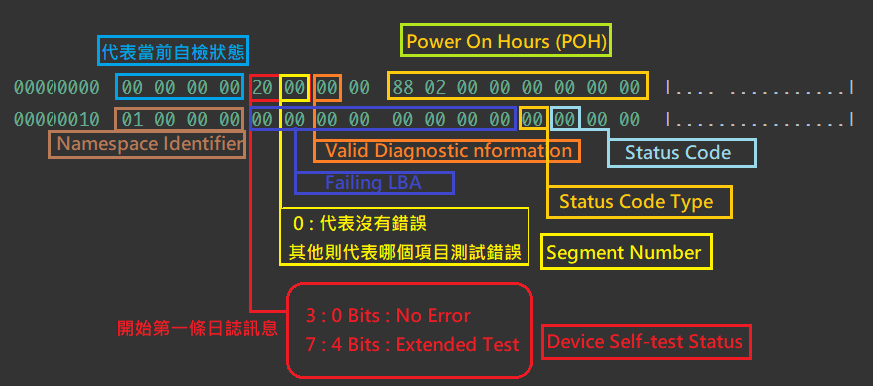
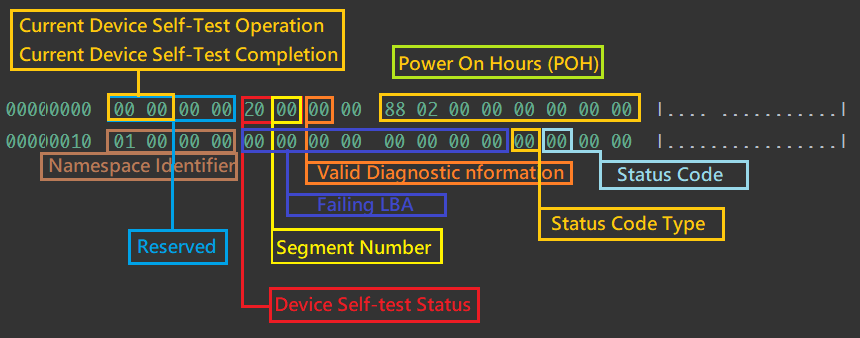
update

diff --git a/nvme/device_self_test.md b/nvme/device_self_test.md
@@ -128,7 +128,7 @@ nvme id-ctrl /dev/nvme0 | grep dsto
 
 ![](https://github.com/miniedwins/learning/blob/main/nvme/pic/admin_command_set/device_self_test_namespace_test_action.png)
 
-說明 : 指定哪一個自檢類型。
+說明 : 指定哪一個自檢測試類型，只少會有兩個類型可以設定。
 
 ~~~shell
 # Short self-test
@@ -186,7 +186,7 @@ nvme device-self-test /dev/nvme0 --namespace-id=1 --self-test-code=0xf
 
 ![](https://github.com/miniedwins/learning/blob/main/nvme/pic/log_page/log_page_self_test_result_data_structure_02.png)
 
-執行命令 : nvme-cli 可以選擇那一種顯示方式，較為方便閱讀日誌。
+執行命令 : `nvme-cli` 可以選擇那一種顯示方式，較為方便閱讀日誌。
 
 ~~~shell
 # NORMAL 格式輸出
@@ -196,7 +196,17 @@ nvme self-test-log /dev/nvme0 -o "normal"
 nvme self-test-log /dev/nvme0 -o "json"
 ~~~
 
-日誌結果 :  下列每一條日誌所輸出的結果並非日誌完整的訊息，nvme-cli 只挑選比較重要的內容顯示。
+日誌結果 :  下列每一條日誌所輸出的結果並非日誌完整的訊息，`nvme-cli` 只挑選比較重要的內容顯示。
+
+* 這兩個都數值都為零，代表當前並沒有任何自檢測試在運行
+  * Current operation  : 0
+  * Current Completion : 0%
+* Self Test Result [0] 代表第一條日誌，以此類推
+  * Operation Result : 0  (測試的結果，0 : 代表沒有發生錯誤)
+  * Self Test Code : 2  (Extended Self Test)
+  * Valid Diagnostic Information : 0 (疑問 : 不清楚想表達的意義)
+  * Power on hours (POH)  : 0x288  (執行第一次自檢測試，總共上電多少個小時)
+  * Vendor Specific : 0 0 (未確定 : 應該表示廠商自定義的自檢測試)
 
 ~~~shell
 Device Self Test Log for NVME device:nvme0
@@ -231,7 +241,7 @@ Self Test Result[20]:
   Operation Result             : 0xf
 ~~~
 
-若是要取得更詳細的資訊，需要執行下列命令 : 
+若是要取得完整的資訊，需要輸出二進制檔案，然後再使用 `hexdump` 查看，執行命令如下 : 
 
 ~~~shell
 # 將日誌以二進位輸出到 "self_test.log" 檔案
@@ -281,12 +291,12 @@ nvme get-log -i 0x06 -l 563
 000001f0  00 00 00 00 00 00 00 00  00 00 00 00 0f 00 00 00  |................|
 ~~~
 
-下面圖示使用上面日誌結果說明對應關係，第二個到最後一個日誌以此類推。
+下面圖示使用上面日誌結果說明對應關係，僅描述第一個日誌內容，第二個到最後一個日誌以此類推查看。
 
 說明 : 
 
-* 當前因為沒有在運行自檢測試，狀態均為 **00**
-* 主要觀察日誌的重點 
+* 當前因為沒有在運行自檢測試，狀態均為 **0x00**
+* 主要觀察日誌的重點
   * Device Self-test Status : 0x20 
     * 自檢類型 : Extended device self-test
     * 自檢結果 : 沒有發生錯誤
